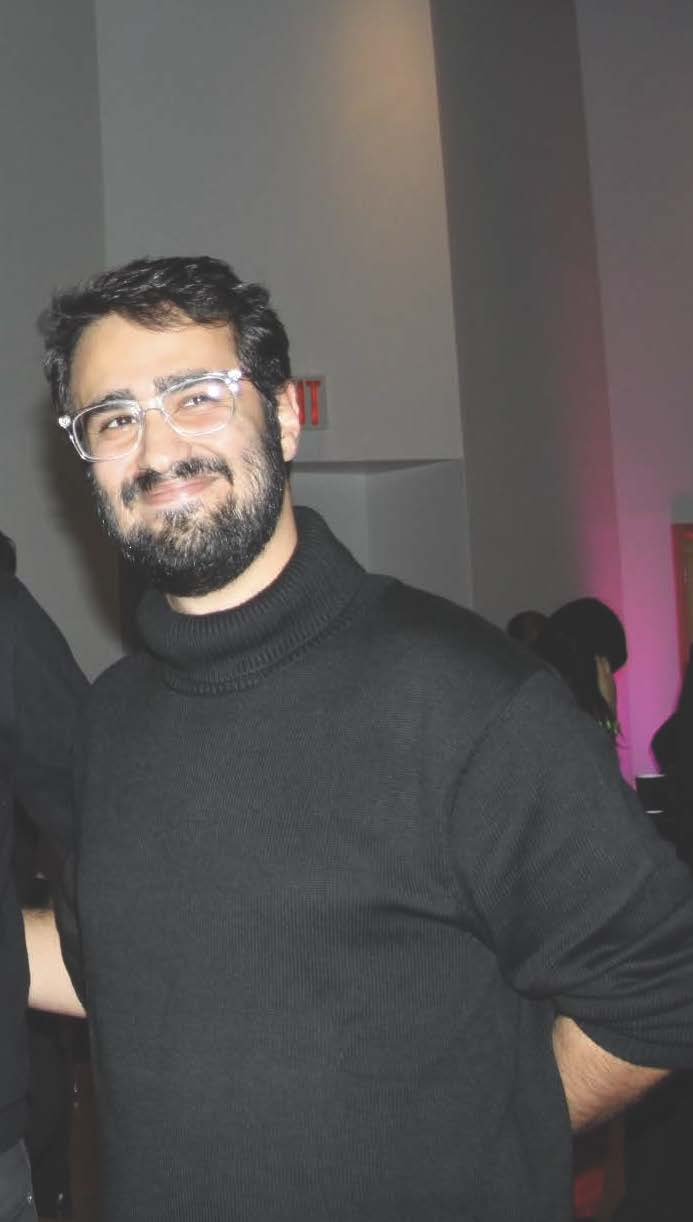
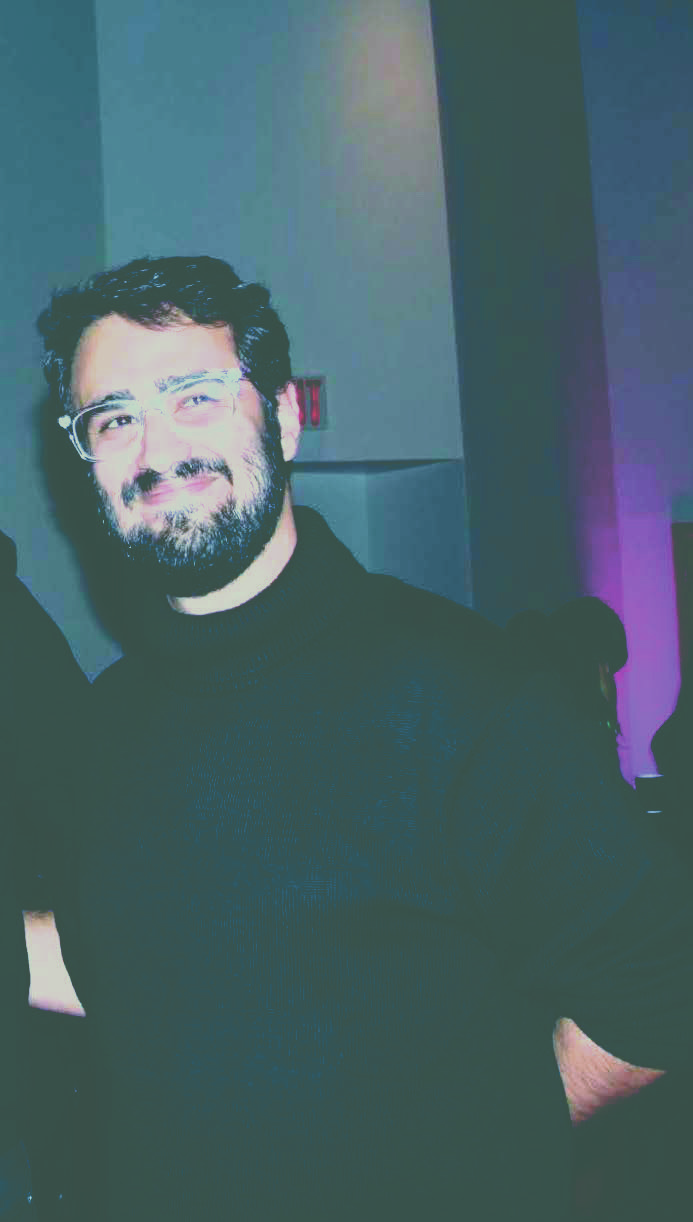
3

diff --git a/AboutMe.html b/AboutMe.html
@@ -92,9 +92,11 @@
 						<h4>Some evidence of me!</h4>
 						<img src="img/dummies/erfan-2.jpg" alt="" class="align-left" />
 						<p>
-							Lorem ipsum dolor sit amet, consetetur sadipscing elitr, sed diam non mod tempor invidunt ut labore et dolore magna aliquyam erat, sed diam voluptua. At vero eos et accusam et justo duo dolores et eabum. Stet clita kasd gubergren, no sea takimata sanctus
-							est Lorem ipsum dolor sit amet
-						</p>
+							Captured on a mesmerizing "<a href="https://en.wikipedia.org/wiki/Yald%C4%81_Night">Yalda night</a>" by a great friend in Manhattan in 2022, 
+							this portrait reminds me of the enchanting spirit of this cultural celebration.
+							Yalda, also known as "Shab-e Yalda", is an ancient multi-culrtural festival celebrated on the longest night of the year, 
+							symbolizing the triumph of light over darkness. Families and friends come together, sharing laughter, stories, and traditional foods.
+							As pomegranates, watermelons, and nuts adorn the table, the vibrant colors and joyful expressions in this portrait radiate the warmth and togetherness that Yalda brings.						</p>
 					</div>
 				</div>
 				<!-- divider -->
